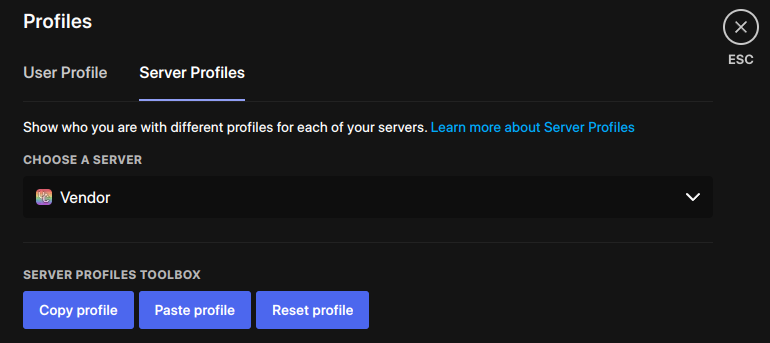
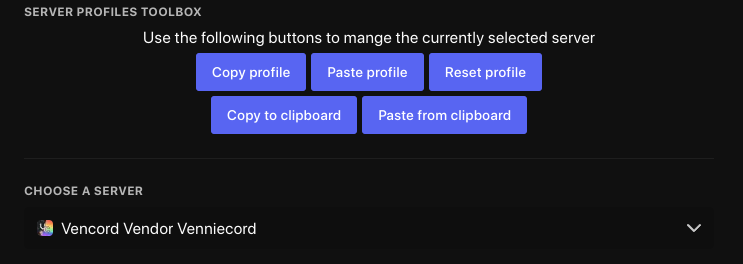
Update D3SOX's Vencord userplugins

diff --git a/src/plusplugins/serverProfilesToolbox/index.tsx b/src/plusplugins/serverProfilesToolbox/index.tsx
@@ -4,19 +4,22 @@
  * SPDX-License-Identifier: GPL-3.0-or-later
  */
 
+import "./styles.css";
+
 import { Devs } from "@utils/constants";
 import definePlugin from "@utils/types";
-import { findByPropsLazy, findComponentByCodeLazy } from "@webpack";
+import { findComponentByCodeLazy } from "@webpack";
 import {
     Button,
     Clipboard,
+    FluxDispatcher,
     GuildMemberStore,
     Text,
     Toasts,
     UserProfileStore,
     UserStore
 } from "@webpack/common";
-import { GuildMember } from "discord-types/general";
+import { Guild, GuildMember } from "discord-types/general";
 
 const SummaryItem = findComponentByCodeLazy("borderType", "showBorder", "hideDivider");
 
@@ -42,32 +45,64 @@ const savedProfile: SavedProfile = {
     avatarDecoration: undefined,
 };
 
-const {
-    setPendingAvatar,
-    setPendingBanner,
-    setPendingBio,
-    setPendingNickname,
-    setPendingPronouns,
-    setPendingThemeColors,
-    setPendingProfileEffectId,
-    setPendingAvatarDecoration,
-}: {
-    setPendingAvatar: (a: string | undefined) => void;
-    setPendingBanner: (a: string | undefined) => void;
-    setPendingBio: (a: string | null) => void;
-    setPendingNickname: (a: string | null) => void;
-    setPendingPronouns: (a: string | null) => void;
-    setPendingThemeColors: (a: number[] | undefined) => void;
-    setPendingProfileEffectId: (a: string | undefined) => void;
-    setPendingAvatarDecoration: (a: string | undefined) => void;
-} = findByPropsLazy("setPendingNickname", "setPendingPronouns");
+const IdentityActions = {
+    setPendingAvatar(avatar: string | undefined) {
+        FluxDispatcher.dispatch({
+            type: "GUILD_IDENTITY_SETTINGS_SET_PENDING_AVATAR",
+            avatar,
+        });
+    },
+    setPendingBanner(banner: string | undefined) {
+        FluxDispatcher.dispatch({
+            type: "GUILD_IDENTITY_SETTINGS_SET_PENDING_BANNER",
+            banner,
+        });
+    },
+    setPendingBio(bio: string | null) {
+        FluxDispatcher.dispatch({
+            type: "GUILD_IDENTITY_SETTINGS_SET_PENDING_BIO",
+            bio,
+        });
+    },
+    setPendingNickname(nickname: string | null) {
+        FluxDispatcher.dispatch({
+            type: "GUILD_IDENTITY_SETTINGS_SET_PENDING_NICKNAME",
+            nickname,
+        });
+    },
+    setPendingPronouns(pronouns: string | null) {
+        FluxDispatcher.dispatch({
+            type: "GUILD_IDENTITY_SETTINGS_SET_PENDING_PRONOUNS",
+            pronouns,
+        });
+    },
+    setPendingThemeColors(themeColors: number[] | undefined) {
+        FluxDispatcher.dispatch({
+            type: "GUILD_IDENTITY_SETTINGS_SET_PENDING_THEME_COLORS",
+            themeColors,
+        });
+    },
+    setPendingProfileEffectId(profileEffectId: string | undefined) {
+        FluxDispatcher.dispatch({
+            type: "GUILD_IDENTITY_SETTINGS_SET_PENDING_PROFILE_EFFECT_ID",
+            profileEffectId,
+        });
+    },
+    setPendingAvatarDecoration(avatarDecoration: string | undefined) {
+        FluxDispatcher.dispatch({
+            type: "GUILD_IDENTITY_SETTINGS_SET_PENDING_AVATAR_DECORATION",
+            avatarDecoration,
+        });
+    },
+};
 
 export default definePlugin({
     name: "ServerProfilesToolbox",
     authors: [Devs.D3SOX],
     description: "Adds a copy/paste/reset button to the server profiles editor",
 
-    patchServerProfiles({ guildId }: { guildId: string }) {
+    patchServerProfiles(guild: Guild) {
+        const guildId = guild.id;
         const currentUser = UserStore.getCurrentUser();
         const premiumType = currentUser.premiumType ?? 0;
 
@@ -86,28 +121,28 @@ export default definePlugin({
         };
 
         const paste = () => {
-            setPendingNickname(savedProfile.nick);
-            setPendingPronouns(savedProfile.pronouns);
+            IdentityActions.setPendingNickname(savedProfile.nick);
+            IdentityActions.setPendingPronouns(savedProfile.pronouns);
             if (premiumType === 2) {
-                setPendingBio(savedProfile.bio);
-                setPendingThemeColors(savedProfile.themeColors);
-                setPendingBanner(savedProfile.banner);
-                setPendingAvatar(savedProfile.avatar);
-                setPendingProfileEffectId(savedProfile.profileEffectId);
-                setPendingAvatarDecoration(savedProfile.avatarDecoration);
+                IdentityActions.setPendingBio(savedProfile.bio);
+                IdentityActions.setPendingThemeColors(savedProfile.themeColors);
+                IdentityActions.setPendingBanner(savedProfile.banner);
+                IdentityActions.setPendingAvatar(savedProfile.avatar);
+                IdentityActions.setPendingProfileEffectId(savedProfile.profileEffectId);
+                IdentityActions.setPendingAvatarDecoration(savedProfile.avatarDecoration);
             }
         };
 
         const reset = () => {
-            setPendingNickname(null);
-            setPendingPronouns("");
+            IdentityActions.setPendingNickname(null);
+            IdentityActions.setPendingPronouns("");
             if (premiumType === 2) {
-                setPendingBio(null);
-                setPendingThemeColors([]);
-                setPendingBanner(undefined);
-                setPendingAvatar(undefined);
-                setPendingProfileEffectId(undefined);
-                setPendingAvatarDecoration(undefined);
+                IdentityActions.setPendingBio(null);
+                IdentityActions.setPendingThemeColors([]);
+                IdentityActions.setPendingBanner(undefined);
+                IdentityActions.setPendingAvatar(undefined);
+                IdentityActions.setPendingProfileEffectId(undefined);
+                IdentityActions.setPendingAvatarDecoration(undefined);
             }
         };
 
@@ -149,7 +184,7 @@ export default definePlugin({
             }
         };
 
-        return <SummaryItem title="Server Profiles Toolbox" hideDivider={false} forcedDivider>
+            return <SummaryItem title="Server Profiles Toolbox" hideDivider={false} forcedDivider className="vc-server-profiles-toolbox">
             <div style={{ display: "flex", alignItems: "center", flexDirection: "column", gap: "5px" }}>
                 <Text variant="text-md/normal">
                     Use the following buttons to mange the currently selected server
@@ -179,10 +214,10 @@ export default definePlugin({
 
     patches: [
         {
-            find: ".PROFILE_CUSTOMIZATION_GUILD_SELECT_TITLE",
+            find: "PROFILE_CUSTOMIZATION_GUILD_HINT.format",
             replacement: {
-                match: /return\(0(.{10,350})\}\)\}\)\}/,
-                replace: "return [(0$1})}),$self.patchServerProfiles(e)]}"
+                match: /\(0,\i\.jsx\)\(\i\.\i,\{guildId:(\i)\.id,/,
+                replace: "$self.patchServerProfiles($1),$&"
             }
         }
     ],

diff --git a/src/plusplugins/betterActivities/index.tsx b/src/plusplugins/betterActivities/index.tsx
@@ -127,7 +127,9 @@ const ActivityTooltip = ({ activity, application, user }: Readonly<{ activity: A
     );
 };
 
-function getActivityApplication({ application_id }: Activity) {
+function getActivityApplication(activity: Activity | null) {
+    if (!activity) return undefined;
+    const { application_id } = activity;
     if (!application_id) return undefined;
     let application = ApplicationStore.getApplication(application_id);
     if (!application && fetchedApplications.has(application_id)) {
@@ -313,7 +315,7 @@ export default definePlugin({
         return null;
     },
 
-    showAllActivitiesComponent({ activity, user, ...props }: Readonly<{ activity: Activity; user: User; application: Application; type: string; }>) {
+    showAllActivitiesComponent({ activity, user, ...props }: Readonly<{ activity: Activity | null; user: User; application: Application; type: string; }>) {
         const [currentActivity, setCurrentActivity] = useState<Activity | null>(
             activity?.type !== 4 ? activity! : null
         );
@@ -340,11 +342,11 @@ export default definePlugin({
         }, {}), [props]);
 
         if (!activities.length) return null;
-        
+
         if (settings.store.allActivitiesStyle === "carousel") {
             return (
                 <div style={{ display: "flex", flexDirection: "column" }}>
-                    {currentActivity?.id === activity.id ? (
+                    {activity && currentActivity?.id === activity.id ? (
                         <ActivityView
                             activity={currentActivity}
                             user={user}

diff --git a/src/plusplugins/serverProfilesToolbox/styles.css b/src/plusplugins/serverProfilesToolbox/styles.css
@@ -1,0 +1,3 @@
+.vc-server-profiles-toolbox {
+    margin-top: 15px;
+}
